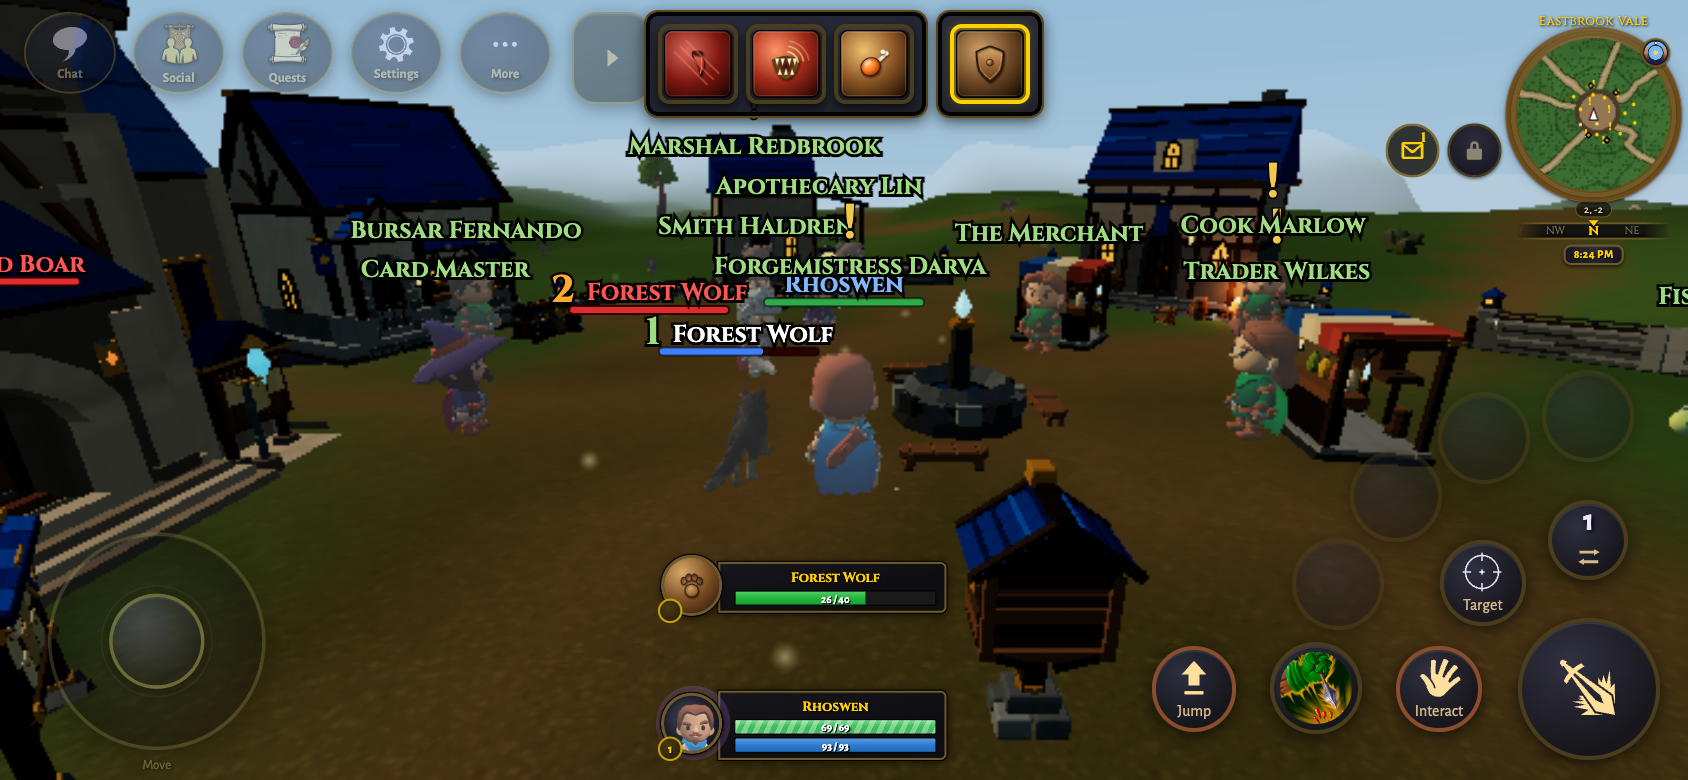
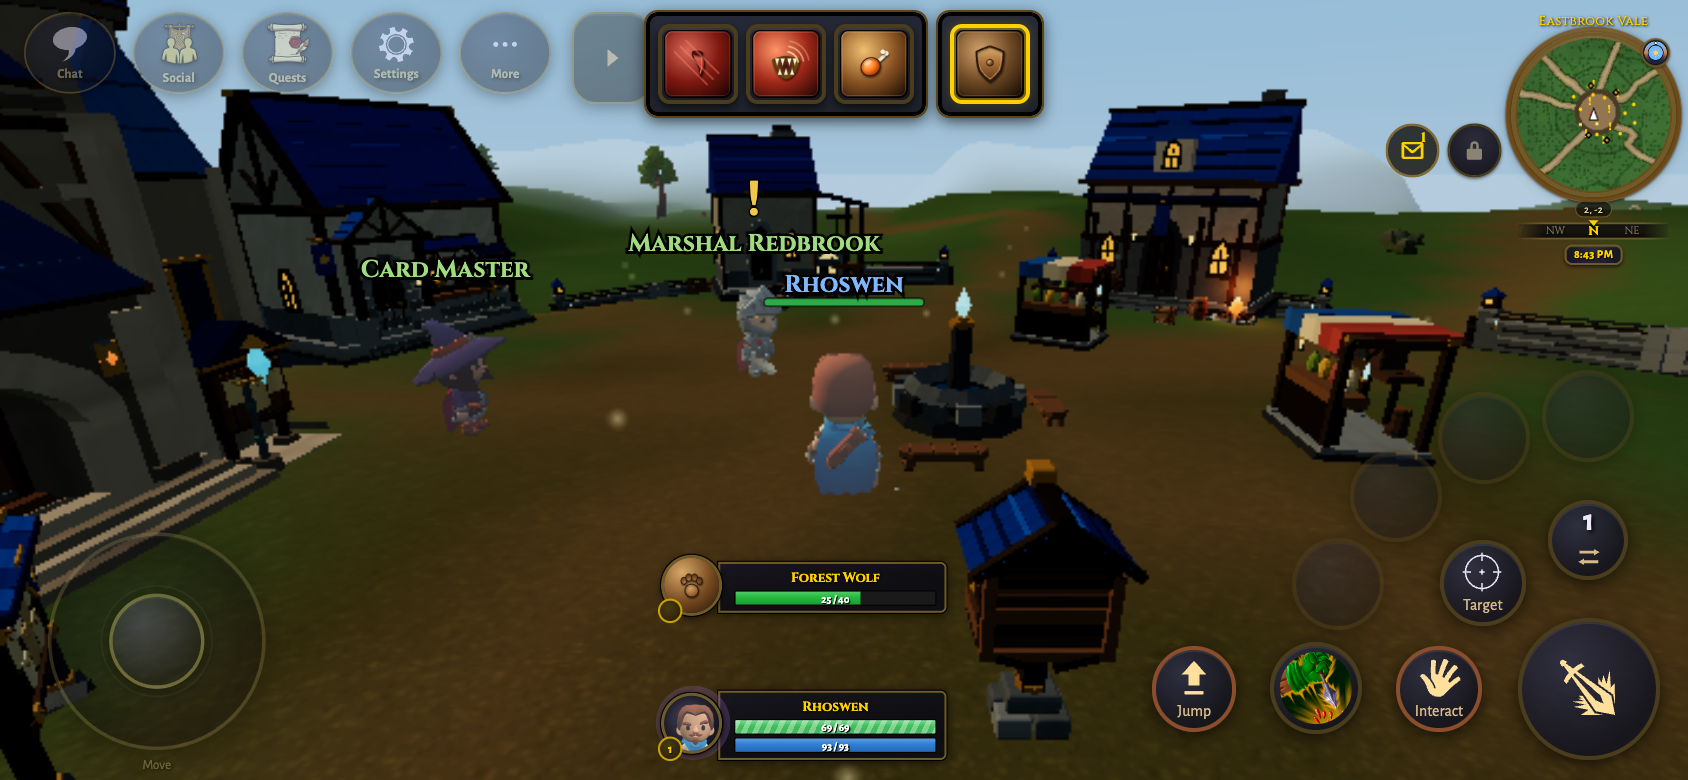
feat(ui): put the pet bar and pet health in one cluster row
Groups the pet command bar and the pet health frame side by side in a
single row above the player frame, instead of stacking them as two rows.
They are one subject, and stacking spent about 52px of vertical space
saying so twice while leaving the health strip reading as a satellite of
the player frame.

They fit: two 3-button groups measure about 294px and the frame about
270px, inside a 612px stack. The bar drops its absolute top:-52px seat
and becomes an ordinary flex item in the cluster.

Mobile deliberately splits them again (display:contents dissolves the
wrapper): the command bar belongs under the thumb at the top of the
screen, the health strip in the bottom-centre column, and the row would
not fit a phone regardless.

The cluster also no longer follows a dragged player frame. It carries
the pet's controls as well as its health, so it belongs with the action
bars; the follow logic added for the stacked layout is dropped with it.

diff --git a/tests/client_shell.test.ts b/tests/client_shell.test.ts
@@ -2549,67 +2549,54 @@ describe('client HTML shell', () => {
   });
 });
 
-// The pet frame belongs to the player frame and must travel with it. Dragging the
-// player frame reparents it out of #actionbar-stack into #ui (pf-detached), and
-// before this was wired the pet strip stayed behind in the stack, stranded at the
-// bottom of the screen while the frame it hangs off sat wherever it was dropped.
-// Both halves are pinned because either alone silently restores the bug: the
-// hud.ts call that moves the node, and the CSS that anchors it once moved.
-describe('pet frame follows the player frame when it is dragged', () => {
-  const hudSrc = readFileSync(new URL('../src/ui/hud.ts', import.meta.url), 'utf8');
+// The pet cluster: the pet command bar and the pet health frame share ONE row above
+// the player frame on desktop, and are deliberately SPLIT again on mobile (command bar
+// under the thumb at the top, health strip in the bottom-centre column). Both halves
+// are pinned because either one alone silently changes the layout: the markup that
+// puts the two in one wrapper, and the mobile rule that dissolves it.
+describe('pet cluster layout', () => {
   const hudCssSrc = readFileSync(new URL('../src/styles/hud.css', import.meta.url), 'utf8');
+  const hudMobileSrc = readFileSync(
+    new URL('../src/styles/hud.mobile.css', import.meta.url),
+    'utf8',
+  );
 
-  it('setPlayerFrameDetached hands off to the pet-frame anchor', () => {
-    const body = hudSrc.slice(
-      hudSrc.indexOf('private setPlayerFrameDetached'),
-      hudSrc.indexOf('private anchorPetFrameToPlayer'),
-    );
-    expect(body).toContain('this.anchorPetFrameToPlayer(active)');
+  it.each([['index.html'], ['play.html']])(
+    '%s wraps the pet bar and pet frame in one cluster above the player frame',
+    (file) => {
+      const src = readFileSync(new URL(`../${file}`, import.meta.url), 'utf8');
+      const cluster = src.indexOf('id="pet-cluster"');
+      const petbar = src.indexOf('id="petbar"');
+      const petFrame = src.indexOf('id="pet-frame"');
+      const player = src.indexOf('id="player-frame"');
+      expect(cluster).toBeGreaterThan(-1);
+      // Bar on the left, health on the right, and the whole row above the player.
+      expect(cluster).toBeLessThan(petbar);
+      expect(petbar).toBeLessThan(petFrame);
+      expect(petFrame).toBeLessThan(player);
+    },
+  );
+
+  it('lays the cluster out as one row and un-anchors the pet bar from the stack edge', () => {
+    expect(hudCssSrc).toMatch(/#pet-cluster \{[^}]*display: flex/);
+    // The bar keeps its own absolute top:-52px seat for the mobile sheet, so the
+    // desktop cluster has to override it or the two halves overlap.
+    expect(hudCssSrc).toMatch(/#pet-cluster > #petbar \{[^}]*position: static/);
   });
 
-  it('the anchor reparents into the player frame when detached and back when docked', () => {
-    const body = hudSrc.slice(
-      hudSrc.indexOf('private anchorPetFrameToPlayer'),
-      hudSrc.indexOf('setAurasOnPlayerFrame'),
-    );
-    expect(body).toContain('frame.appendChild(pet)');
-    expect(body).toContain("$('#actionbar-stack')");
-    // Docked, the strip goes back immediately BEFORE the player frame: it sits
-    // above it, matching where the mobile layout already puts it.
-    expect(body).toContain('stack.insertBefore(pet, frame)');
-  });
-
-  // Both entry documents must carry the strip ahead of the player frame, or the
-  // first paint before any drag would show it in the wrong place.
-  it.each([
-    ['index.html', 'index.html'],
-    ['play.html', 'play.html'],
-  ])('%s orders the pet frame above the player frame', (_label, file) => {
-    const src = readFileSync(new URL(`../${file}`, import.meta.url), 'utf8');
-    const pet = src.indexOf('id="pet-frame"');
-    const player = src.indexOf('id="player-frame"');
-    const petbar = src.indexOf('id="petbar"');
-    expect(pet).toBeGreaterThan(-1);
-    expect(pet).toBeLessThan(player);
-    // The pet ACTION bar is not part of that move: it is positioned against the
-    // stack's top edge and stays with the action bars.
-    expect(player).toBeLessThan(petbar);
-  });
-
-  it('CSS anchors the strip under the detached frame instead of leaving it in flow', () => {
-    expect(hudCssSrc).toContain('#player-frame.pf-detached > #pet-frame {');
-    expect(hudCssSrc).toMatch(/#player-frame\.pf-detached > #pet-frame \{[^}]*position: absolute/);
-  });
-
-  // Docked, the two frames share one 612px box and this inset is what puts the pet
-  // portrait in the same column as the player portrait. Measured against the
-  // rendered frames (both portraits land on the same x); a drifted value is exactly
-  // the "floating, unattached" look the inset exists to prevent.
-  it('shares one content inset between the player and pet frames', () => {
+  it('shares one content inset with the player frame so the row lines up with it', () => {
     expect(hudCssSrc).toContain('--unit-frame-content-inset: 18px;');
-    expect(hudCssSrc).toMatch(/#pet-frame \{[^}]*padding-left: var\(--unit-frame-content-inset\)/);
-    // No extra zoom of its own: any scale the two frames do not share moves the
-    // pet portrait off that column.
-    expect(hudCssSrc).toMatch(/#pet-frame > \* \{\s*zoom: var\(--player-frame-scale, 1\);\s*\}/);
+    expect(hudCssSrc).toMatch(
+      /#pet-cluster \{[^}]*padding-left: var\(--unit-frame-content-inset\)/,
+    );
+  });
+
+  // display:contents dissolves the wrapper so each child keeps its own fixed seat.
+  // Without it the mobile layout inherits the desktop row and the command bar is
+  // dragged down out of thumb reach into the bottom-centre column.
+  it('dissolves the cluster on mobile so the two halves keep separate seats', () => {
+    expect(hudMobileSrc).toMatch(/body\.mobile-touch #pet-cluster \{\s*display: contents;\s*\}/);
+    expect(hudMobileSrc).toMatch(/body\.mobile-touch #petbar \{[^}]*position: fixed/);
+    expect(hudMobileSrc).toMatch(/body\.mobile-touch #pet-frame \{[^}]*position: fixed/);
   });
 });

diff --git a/src/styles/hud.css b/src/styles/hud.css
@@ -621,36 +621,44 @@
     flex: none;
     width: 190px;
   }
-  /* Pet frame: the hunter/warlock/mage pet's health strip, in flow directly ABOVE
-     the player frame inside #actionbar-stack, which is also where the mobile layout
-     puts it (bottom-centre column, above the player frame), so the two platforms
-     agree. The stack is bottom-anchored (#bottom-bar sits at bottom: 6px), so this
-     grows the stack UPWARD: the action bars and the player frame keep their
-     positions and the strip appears above them. #petbar is positioned against the
-     stack's top edge, so it rides above the strip without its own rule.
-     Hidden until the player actually has a pet; the family painter sets the inline
-     display:flex, which outranks the `none` here.
+  /* Pet cluster: ONE row above the player frame holding the pet command bar on the
+     left and the pet's health frame on the right. Stacking the two as separate rows
+     spent about 52px of vertical space on what is one subject, and left the health
+     strip reading as a satellite of the player frame rather than part of the pet UI.
+     Side by side they measure ~294px (two 3-button groups) plus ~270px (portrait +
+     bars), which fits the 612px stack with room to spare.
 
-     It shares the player frame's 612px box and its scale, and LEFT-ALIGNS its
-     content to --unit-frame-content-inset so the pet portrait sits in the same
-     column as the player portrait directly above it. Both halves of that matter:
-     the player frame CENTRES a full-width content row in the box, and this frame's
-     row is much shorter (one short bar, no resource rail), so centring would push
-     its portrait about 200px right of the player's and the pair reads as two
-     unrelated things floating over the action bar. It also takes NO extra zoom of
-     its own for the same reason: any scale the two frames do not share moves this
-     one's content off that column. The subordinate read comes from the shorter bar
-     and the single row, not from shrinking the frame. */
+     The stack is bottom-anchored (#bottom-bar sits at bottom: 6px), so this grows it
+     UPWARD: the action bars and the player frame keep their positions and the
+     cluster appears above them. #petbar drops its absolute top:-52px seat here and
+     becomes an ordinary flex item; the mobile sheet keeps the two apart instead (see
+     hud.mobile.css), because there the command bar belongs under the thumb at the top
+     of the screen while the health strip belongs in the bottom-centre column. */
+  #pet-cluster {
+    display: flex;
+    align-items: center;
+    justify-content: flex-start;
+    gap: 8px;
+    width: 612px;
+    margin: 0 auto;
+    padding-left: var(--unit-frame-content-inset);
+  }
+  #pet-cluster > #petbar {
+    position: static;
+    margin-bottom: 4px;
+  }
+  /* The health half of the cluster. Hidden until the player actually has a pet; the
+     family painter sets the inline display:flex, which outranks the `none` here. It
+     takes no width or centring of its own (the cluster row owns the layout) and no
+     extra zoom, so it scales with the player frame rather than drifting from it. */
   #pet-frame {
     position: relative;
     top: auto;
     left: auto;
-    width: 612px;
-    margin: 0 auto 4px;
+    margin: 0 0 4px;
     display: none;
     align-items: center;
     justify-content: flex-start;
-    padding-left: var(--unit-frame-content-inset);
     cursor: pointer;
   }
   #pet-frame > * {
@@ -671,24 +679,6 @@
      dims rather than hiding, matching the party frames' dead treatment. */
   #pet-frame.dead {
     opacity: 0.7;
-  }
-  /* Once the player frame is DRAGGED it leaves #actionbar-stack for #ui, so hud.ts
-     moves the pet frame inside it (anchorPetFrameToPlayer) and it hangs off the
-     frame here instead of sitting in the stack's flow. Without this the strip
-     stayed behind at the bottom of the screen while the frame it belongs to moved
-     away. The children-zoom is dropped because #player-frame already applies the
-     same scale to its own children, which now include this frame. */
-  #player-frame.pf-detached > #pet-frame {
-    position: absolute;
-    bottom: calc(100% + 4px);
-    left: 0;
-    width: auto;
-    margin: 0;
-    padding-left: 0;
-    z-index: 6;
-  }
-  #player-frame.pf-detached > #pet-frame > * {
-    zoom: 1;
   }
   #target-frame {
     left: 12px;

diff --git a/src/ui/hud.ts b/src/ui/hud.ts
@@ -3373,32 +3373,11 @@ export class Hud {
       const stack = $('#actionbar-stack');
       if (frame.parentElement !== stack) stack.insertBefore(frame, stack.firstChild);
     }
-    this.anchorPetFrameToPlayer(active);
-  }
-
-  // The pet frame belongs to the player frame, so it has to travel with it.
-  // DOCKED it stays an in-flow sibling right after the player frame, so the
-  // bottom-anchored stack reserves its height and it never overlays the action
-  // bars. Once the player frame is DRAGGED it moves to #ui, and a sibling left in
-  // the stack would be stranded at the bottom of the screen while the frame it
-  // belongs to sits wherever the player dropped it, so the pet frame moves inside
-  // the frame and CSS hangs it underneath. Same reparent-and-restore shape the
-  // buff row uses for the Buffs on the Player Frame option below.
-  private anchorPetFrameToPlayer(detached: boolean): void {
-    const pet = this.petFrameEl;
-    if (!pet) return;
-    const frame = this.playerFrameEl;
-    if (detached) {
-      if (pet.parentElement !== frame) frame.appendChild(pet);
-      return;
-    }
-    const stack = $('#actionbar-stack');
-    // Docked, the strip sits directly ABOVE the player frame, so it goes back in
-    // immediately before it. setPlayerFrameDetached has already restored the frame
-    // to the stack's head, so inserting before it makes the strip the new head and
-    // the order reads pet, player, bars from the top. #petbar is positioned against
-    // the stack's TOP EDGE (top: -52px), so it rides above the strip on its own.
-    if (pet.parentElement !== stack) stack.insertBefore(pet, frame);
+    // The pet cluster (#pet-cluster: command bar plus health frame) deliberately
+    // does NOT travel with the player frame. It is its own row at the top of the
+    // action-bar stack, holding the pet's controls as well as its health, so it
+    // belongs with the bars rather than hanging off the player frame; dragging the
+    // player frame elsewhere leaves the pet UI where the player put the bars.
   }
 
   // Buffs on the Player Frame (aurasOnPlayerFrame): reparent the player's own

diff --git a/index.html b/index.html
@@ -346,14 +346,17 @@
     <div id="bottom-bar">
       <div id="actionbar-row">
         <div id="actionbar-stack">
-          <div id="pet-frame" class="unitframe petframe" role="button" tabindex="0" data-i18n-aria="hudChrome.unitFrame.petLabel" aria-label="Your Pet" style="display: none">
-            <div class="portrait-wrap">
-              <div class="portrait"><canvas id="petf-portrait" width="54" height="54"></canvas></div>
-              <div class="level-chip" id="petf-level"></div>
-            </div>
-            <div class="uf-bars">
-              <div class="uf-name" id="petf-name"></div>
-              <div class="bar hp"><div class="bar-fill" id="petf-hp"></div><div class="bar-text" id="petf-hp-text"></div></div>
+          <div id="pet-cluster">
+            <div id="petbar" class="panel"></div>
+            <div id="pet-frame" class="unitframe petframe" role="button" tabindex="0" data-i18n-aria="hudChrome.unitFrame.petLabel" aria-label="Your Pet" style="display: none">
+              <div class="portrait-wrap">
+                <div class="portrait"><canvas id="petf-portrait" width="54" height="54"></canvas></div>
+                <div class="level-chip" id="petf-level"></div>
+              </div>
+              <div class="uf-bars">
+                <div class="uf-name" id="petf-name"></div>
+                <div class="bar hp"><div class="bar-fill" id="petf-hp"></div><div class="bar-text" id="petf-hp-text"></div></div>
+              </div>
             </div>
           </div>
           <div id="player-frame" class="unitframe" role="group" tabindex="0" aria-haspopup="menu" data-i18n-aria="hudChrome.unitFrame.playerLabel" aria-label="Your Hero">
@@ -370,7 +373,6 @@
               <div class="bar mana" id="pf-resource"><div class="bar-fill" id="pf-res"></div><div class="bar-text" id="pf-res-text"></div><div class="low-resource-label" id="pf-low-resource"></div></div>
             </div>
           </div>
-          <div id="petbar" class="panel"></div>
           <div id="stancebar"></div>
           <div id="actionbar3" class="panel"></div>
           <div id="actionbar2" class="panel"></div>

diff --git a/play.html b/play.html
@@ -296,14 +296,17 @@
     <div id="bottom-bar">
       <div id="actionbar-row">
         <div id="actionbar-stack">
-          <div id="pet-frame" class="unitframe petframe" role="button" tabindex="0" data-i18n-aria="hudChrome.unitFrame.petLabel" aria-label="Your Pet" style="display: none">
-            <div class="portrait-wrap">
-              <div class="portrait"><canvas id="petf-portrait" width="54" height="54"></canvas></div>
-              <div class="level-chip" id="petf-level"></div>
-            </div>
-            <div class="uf-bars">
-              <div class="uf-name" id="petf-name"></div>
-              <div class="bar hp"><div class="bar-fill" id="petf-hp"></div><div class="bar-text" id="petf-hp-text"></div></div>
+          <div id="pet-cluster">
+            <div id="petbar" class="panel"></div>
+            <div id="pet-frame" class="unitframe petframe" role="button" tabindex="0" data-i18n-aria="hudChrome.unitFrame.petLabel" aria-label="Your Pet" style="display: none">
+              <div class="portrait-wrap">
+                <div class="portrait"><canvas id="petf-portrait" width="54" height="54"></canvas></div>
+                <div class="level-chip" id="petf-level"></div>
+              </div>
+              <div class="uf-bars">
+                <div class="uf-name" id="petf-name"></div>
+                <div class="bar hp"><div class="bar-fill" id="petf-hp"></div><div class="bar-text" id="petf-hp-text"></div></div>
+              </div>
             </div>
           </div>
           <div id="player-frame" class="unitframe" role="group" tabindex="0" aria-haspopup="menu" data-i18n-aria="hudChrome.unitFrame.playerLabel" aria-label="Your Hero">
@@ -320,7 +323,6 @@
               <div class="bar mana" id="pf-resource"><div class="bar-fill" id="pf-res"></div><div class="bar-text" id="pf-res-text"></div><div class="low-resource-label" id="pf-low-resource"></div></div>
             </div>
           </div>
-          <div id="petbar" class="panel"></div>
           <div id="stancebar"></div>
           <div id="actionbar3" class="panel"></div>
           <div id="actionbar2" class="panel"></div>

diff --git a/src/styles/hud.mobile.css b/src/styles/hud.mobile.css
@@ -1407,6 +1407,15 @@
     width: 100%;
     min-width: 0;
   }
+  /* Desktop groups the pet command bar and the pet health frame into one row
+     (#pet-cluster). Mobile deliberately splits them again: the command bar belongs
+     under the thumb at the top of the screen, the health strip belongs in the
+     bottom-centre column with the player frame, and one 570px row would not fit a
+     phone anyway. display:contents dissolves the wrapper so each child keeps the
+     independent fixed seat the rules below give it. */
+  body.mobile-touch #pet-cluster {
+    display: contents;
+  }
   body.mobile-touch #petbar {
     position: fixed;
     left: 50%;
